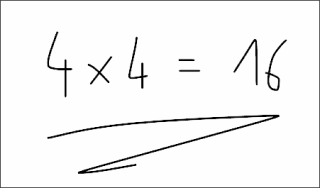
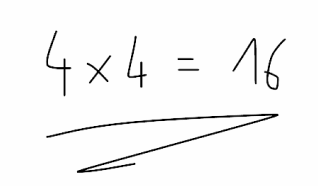
BR-7144: attachment viewer D (header arrows, swipe, R5 fold-away, swipe-down close); 0.75 lines and 3px shadows on all previews; clean photo from Figma
Claude-Session: https://claude.ai/code/session_017Ek2Q6Vjzc9YhSDP4ks2o4

diff --git a/br-7144/flow/pack.js b/br-7144/flow/pack.js
@@ -168,8 +168,7 @@ function docSVG(loading){
   const id="dpc"+(++docN), page="M0 0H291.1L316.5 24.8L317.1 178.8H0Z";
   return `<svg class="docsvg" viewBox="0 0 321 183" preserveAspectRatio="none" ${loading?'aria-hidden="true"':'role="img" aria-label="Document"'}>
     <defs><clipPath id="${id}"><path d="${page}"/></clipPath></defs>
-    <path class="dsh" d="M3 3H294.1L319.5 27.8L320.1 181.8H3Z"/>
-    <g clip-path="url(#${id})">${loading?`<rect class="dfill" width="321" height="183"/>`:`<rect width="321" height="183" fill="#fff"/><image href="assets/document.png" width="317.1" height="178.8" preserveAspectRatio="xMidYMid slice"/><rect width="321" height="183" fill="#000" opacity=".03"/>`}</g>
+        <g clip-path="url(#${id})">${loading?`<rect class="dfill" width="321" height="183"/>`:`<rect width="321" height="183" fill="#fff"/><image href="assets/document.png" width="317.1" height="178.8" preserveAspectRatio="xMidYMid slice"/><rect width="321" height="183" fill="#000" opacity=".03"/>`}</g>
     <path class="dln" d="${page}"/>
     <path class="dsh" d="M294 3.3V27.7H319.2Z"/>
     <path class="dfold" d="M291 .3V24.7H316.2Z"/>
@@ -376,6 +375,7 @@ function syncSel(kind){ if(document.body.classList.contains("proto")) return; co
 const pw=document.getElementById("pwrap");
 pw.addEventListener("click",e=>{
   if(e.target.closest(".badge")){ const id=e.target.closest(".badge").dataset.el; const it=document.querySelector(`#pwrap [data-el="${id}"]`); it&&it.scrollIntoView({block:"center",behavior:"smooth"}); return; }
+  const att=e.target.closest(".as"); if(att&&!att.querySelector(".ld")&&!att.closest(".cv")){ openViewer(att,e.target); return; }
   const a=e.target.closest("[data-act]");
   if(a){ const k=a.dataset.act; if(k==="send"){ e.preventDefault(); send(); } else if(k==="plus") addPhoto(); else if(k==="newchat"){ THREAD=[]; WAITING=false; renderStage(); } return; }
   /* workbench: clicking a component jumps to its spec section */
@@ -384,6 +384,57 @@ pw.addEventListener("click",e=>{
 });
 pw.addEventListener("keydown",e=>{ if(e.key==="Enter"&&e.target.matches(".fld input")){ e.preventDefault(); send(); } });
 function go(stateId){ const x=find(stateId); if(!x) return; ui.sel={kind:"state",mode:x.m.id,state:x.s.id}; ui.live={}; render(); scrollToSel(); }
+
+/* ================= attachment viewer (variant D, Hannes 23.11) =================
+   Tap an attachment: the viewer opens on it. Today's viewer plus ‹ › and "2 of 6 files" in the header (only with several files).
+   R5: scrolling down / zooming in folds the header away, scrolling back up / zooming out / one tap brings it back.
+   Swipe left/right: next / previous file. Swipe down on the top bar closes, only from the start position (top, not zoomed). */
+const VW_SRC={doc:{name:"Worksheet.pdf",kind:"doc",pages:3},doc2:{name:"Exercise_4.pdf",kind:"doc",pages:2},image:{name:"line_sketch.jpg",kind:"image",pages:1},image2:{name:"exercise_4.jpg",kind:"image",pages:1},drawing:{name:"Canvas",kind:"drawing",pages:1}};
+function viewerFiles(as,tapped){
+  if(as.classList.contains("as-two")){ const cols=[...as.querySelectorAll(".col")]; return {files:[VW_SRC.doc,VW_SRC.drawing],start:Math.max(0,cols.findIndex(c=>c.contains(tapped)))}; }
+  if(as.classList.contains("as-more")){ const n=parseInt((as.querySelector(".cap")||{}).textContent)||4; const pool=[VW_SRC.doc,VW_SRC.drawing,VW_SRC.doc2,VW_SRC.image,VW_SRC.image2,{...VW_SRC.drawing,name:"Canvas 2"}];
+    return {files:Array.from({length:n},(_,k)=>pool[k%pool.length]),start:0}; }
+  const k=as.classList.contains("as-doc")?"doc":as.classList.contains("as-drawing")?"drawing":"image"; return {files:[VW_SRC[k]],start:0};
+}
+let VW=null;
+function openViewer(as,tapped){ const {files,start}=viewerFiles(as,tapped); VW={files,i:start,eng:false,zoom:false}; drawViewer(); }
+function closeViewer(){ const v=$("#pwrap .vw"); if(!v) return; v.classList.add("out"); setTimeout(()=>{ v.remove(); VW=null; },220); }
+function vwPage(f){ return `<div class="vw-page"><img src="assets/document.png" alt=""><div class="vw-lines"><i style="width:92%"></i><i style="width:85%"></i><i style="width:96%"></i><i style="width:60%"></i><i style="width:88%"></i><i style="width:74%"></i></div><div class="vw-lines"><i style="width:90%"></i><i style="width:80%"></i><i style="width:52%"></i></div></div>`; }
+function drawViewer(dir){
+  const ph=$("#pwrap .phone"); if(!ph||!VW) return; let v=ph.querySelector(".vw");
+  if(!v){ v=document.createElement("div"); v.className="vw"; ph.appendChild(v); wireViewer(v); }
+  const f=VW.files[VW.i], n=VW.files.length, many=n>1;
+  v.innerHTML=`<div class="vw-hd">${STATUS}<div class="vw-row">
+      <div class="vw-nav">${many?`<button data-vw="prev" aria-label="Previous file" ${VW.i===0?"disabled":""}>${VI.l}</button><button data-vw="next" aria-label="Next file" ${VW.i===n-1?"disabled":""}>${VI.r}</button>`:""}</div>
+      <div class="vw-t"><div class="vw-n">${esc(f.name)}</div>${many?`<div class="vw-s">${VW.i+1} of ${n} files</div>`:""}</div>
+      <div class="vw-x"><button data-vw="close" aria-label="Close">${VI.x}</button></div></div></div>
+    <div class="vw-body ${VW.zoom?"zoom":""}"><div class="vw-in ${dir?"from-"+dir:""}">${f.kind==="doc"?Array.from({length:f.pages},()=>vwPage(f)).join(""):`<div class="vw-media"><img src="assets/${f.kind==="drawing"?"drawing":"photo"}.png" alt=""></div>`}</div></div>
+    ${f.kind==="doc"?`<div class="vw-pill"><b class="vw-p">1</b><span> / ${f.pages}</span></div>`:""}`;
+  v.classList.toggle("eng",VW.eng);
+}
+const VI={l:`<svg width="24" height="24" viewBox="0 0 24 24" fill="none" stroke="currentColor" stroke-width="1.5" stroke-linecap="round" stroke-linejoin="round"><path d="M15 4l-8 8 8 8"/></svg>`,
+  r:`<svg width="24" height="24" viewBox="0 0 24 24" fill="none" stroke="currentColor" stroke-width="1.5" stroke-linecap="round" stroke-linejoin="round"><path d="M9 4l8 8-8 8"/></svg>`,
+  x:`<svg width="24" height="24" viewBox="0 0 24 24" fill="none" stroke="currentColor" stroke-width="1.5" stroke-linecap="round"><path d="M5 5l14 14M19 5L5 19"/></svg>`};
+function vwSet(eng){ if(!VW||VW.eng===eng) return; VW.eng=eng; const v=$("#pwrap .vw"); v&&v.classList.toggle("eng",eng); }
+function vwGo(d){ if(!VW) return; const k=VW.i+d; if(k<0||k>=VW.files.length) return; VW.i=k; VW.zoom=false; VW.eng=false; drawViewer(d>0?"r":"l"); }
+function wireViewer(v){
+  let sx=0,sy=0,st=0,fromHd=false,drag=false,moved=false,lastTap=0,lastTop=0;
+  v.addEventListener("click",e=>{ const b=e.target.closest("[data-vw]"); if(!b) return; e.stopPropagation(); const k=b.dataset.vw; if(k==="close") closeViewer(); else vwGo(k==="next"?1:-1); });
+  v.addEventListener("scroll",e=>{ const b=e.target; if(!b.classList||!b.classList.contains("vw-body")||!VW) return; const t=b.scrollTop, d=t-lastTop; lastTop=t;
+    const pages=b.querySelectorAll(".vw-page"); if(pages.length){ let p=1; pages.forEach((pg,k)=>{ if(pg.offsetTop-b.clientHeight/2<=t) p=k+1; }); const el=v.querySelector(".vw-p"); if(el) el.textContent=p; }
+    if(d>6&&t>20) vwSet(true); else if((d<-6||t<10)&&!VW.zoom) vwSet(false); },true);
+  v.addEventListener("pointerdown",e=>{ if(e.target.closest("button")) return; sx=e.clientX; sy=e.clientY; moved=false; const b=v.querySelector(".vw-body");
+    fromHd=!!e.target.closest(".vw-hd"); st=b?b.scrollTop:0; drag=fromHd&&st<5&&!VW.zoom; if(drag) v.setPointerCapture(e.pointerId); });
+  v.addEventListener("pointermove",e=>{ const dx=e.clientX-sx, dy=e.clientY-sy; if(Math.abs(dx)>6||Math.abs(dy)>6) moved=true;
+    if(drag&&dy>0){ v.style.transition="none"; v.style.transform=`translateY(${dy/(ui.scale||1)}px) scale(${Math.max(.85,1-dy/2000)})`; v.style.borderRadius="24px"; } });
+  v.addEventListener("pointerup",e=>{ const dx=e.clientX-sx, dy=e.clientY-sy;
+    if(drag){ drag=false; v.style.transition=""; if(dy>110){ closeViewer(); return; } v.style.transform=""; v.style.borderRadius=""; if(moved) return; }
+    if(e.target.closest("button")) return;
+    if(!VW.zoom&&Math.abs(dx)>60&&Math.abs(dx)>Math.abs(dy)*1.5){ vwGo(dx<0?1:-1); return; }
+    if(!moved&&e.target.closest(".vw-body")){ const now=Date.now();
+      if(now-lastTap<300){ VW.zoom=!VW.zoom; v.querySelector(".vw-body").classList.toggle("zoom",VW.zoom); vwSet(VW.zoom); lastTap=0; return; }
+      lastTap=now; setTimeout(()=>{ if(lastTap===now&&VW) vwSet(!VW.eng); },310); } });
+}
 
 /* ================= stable element numbers ================= */
 const EL_ORDER=["menu","help","close","newchat","speaker","wline","att-image","att-drawing","att-doc","att-multi","att-loading","cite-source","cite-foot","date","brian"];

diff --git a/packs/br-7144/pack.js b/packs/br-7144/pack.js
@@ -168,8 +168,7 @@ function docSVG(loading){
   const id="dpc"+(++docN), page="M0 0H291.1L316.5 24.8L317.1 178.8H0Z";
   return `<svg class="docsvg" viewBox="0 0 321 183" preserveAspectRatio="none" ${loading?'aria-hidden="true"':'role="img" aria-label="Document"'}>
     <defs><clipPath id="${id}"><path d="${page}"/></clipPath></defs>
-    <path class="dsh" d="M3 3H294.1L319.5 27.8L320.1 181.8H3Z"/>
-    <g clip-path="url(#${id})">${loading?`<rect class="dfill" width="321" height="183"/>`:`<rect width="321" height="183" fill="#fff"/><image href="assets/document.png" width="317.1" height="178.8" preserveAspectRatio="xMidYMid slice"/><rect width="321" height="183" fill="#000" opacity=".03"/>`}</g>
+        <g clip-path="url(#${id})">${loading?`<rect class="dfill" width="321" height="183"/>`:`<rect width="321" height="183" fill="#fff"/><image href="assets/document.png" width="317.1" height="178.8" preserveAspectRatio="xMidYMid slice"/><rect width="321" height="183" fill="#000" opacity=".03"/>`}</g>
     <path class="dln" d="${page}"/>
     <path class="dsh" d="M294 3.3V27.7H319.2Z"/>
     <path class="dfold" d="M291 .3V24.7H316.2Z"/>
@@ -376,6 +375,7 @@ function syncSel(kind){ if(document.body.classList.contains("proto")) return; co
 const pw=document.getElementById("pwrap");
 pw.addEventListener("click",e=>{
   if(e.target.closest(".badge")){ const id=e.target.closest(".badge").dataset.el; const it=document.querySelector(`#pwrap [data-el="${id}"]`); it&&it.scrollIntoView({block:"center",behavior:"smooth"}); return; }
+  const att=e.target.closest(".as"); if(att&&!att.querySelector(".ld")&&!att.closest(".cv")){ openViewer(att,e.target); return; }
   const a=e.target.closest("[data-act]");
   if(a){ const k=a.dataset.act; if(k==="send"){ e.preventDefault(); send(); } else if(k==="plus") addPhoto(); else if(k==="newchat"){ THREAD=[]; WAITING=false; renderStage(); } return; }
   /* workbench: clicking a component jumps to its spec section */
@@ -384,6 +384,57 @@ pw.addEventListener("click",e=>{
 });
 pw.addEventListener("keydown",e=>{ if(e.key==="Enter"&&e.target.matches(".fld input")){ e.preventDefault(); send(); } });
 function go(stateId){ const x=find(stateId); if(!x) return; ui.sel={kind:"state",mode:x.m.id,state:x.s.id}; ui.live={}; render(); scrollToSel(); }
+
+/* ================= attachment viewer (variant D, Hannes 23.11) =================
+   Tap an attachment: the viewer opens on it. Today's viewer plus ‹ › and "2 of 6 files" in the header (only with several files).
+   R5: scrolling down / zooming in folds the header away, scrolling back up / zooming out / one tap brings it back.
+   Swipe left/right: next / previous file. Swipe down on the top bar closes, only from the start position (top, not zoomed). */
+const VW_SRC={doc:{name:"Worksheet.pdf",kind:"doc",pages:3},doc2:{name:"Exercise_4.pdf",kind:"doc",pages:2},image:{name:"line_sketch.jpg",kind:"image",pages:1},image2:{name:"exercise_4.jpg",kind:"image",pages:1},drawing:{name:"Canvas",kind:"drawing",pages:1}};
+function viewerFiles(as,tapped){
+  if(as.classList.contains("as-two")){ const cols=[...as.querySelectorAll(".col")]; return {files:[VW_SRC.doc,VW_SRC.drawing],start:Math.max(0,cols.findIndex(c=>c.contains(tapped)))}; }
+  if(as.classList.contains("as-more")){ const n=parseInt((as.querySelector(".cap")||{}).textContent)||4; const pool=[VW_SRC.doc,VW_SRC.drawing,VW_SRC.doc2,VW_SRC.image,VW_SRC.image2,{...VW_SRC.drawing,name:"Canvas 2"}];
+    return {files:Array.from({length:n},(_,k)=>pool[k%pool.length]),start:0}; }
+  const k=as.classList.contains("as-doc")?"doc":as.classList.contains("as-drawing")?"drawing":"image"; return {files:[VW_SRC[k]],start:0};
+}
+let VW=null;
+function openViewer(as,tapped){ const {files,start}=viewerFiles(as,tapped); VW={files,i:start,eng:false,zoom:false}; drawViewer(); }
+function closeViewer(){ const v=$("#pwrap .vw"); if(!v) return; v.classList.add("out"); setTimeout(()=>{ v.remove(); VW=null; },220); }
+function vwPage(f){ return `<div class="vw-page"><img src="assets/document.png" alt=""><div class="vw-lines"><i style="width:92%"></i><i style="width:85%"></i><i style="width:96%"></i><i style="width:60%"></i><i style="width:88%"></i><i style="width:74%"></i></div><div class="vw-lines"><i style="width:90%"></i><i style="width:80%"></i><i style="width:52%"></i></div></div>`; }
+function drawViewer(dir){
+  const ph=$("#pwrap .phone"); if(!ph||!VW) return; let v=ph.querySelector(".vw");
+  if(!v){ v=document.createElement("div"); v.className="vw"; ph.appendChild(v); wireViewer(v); }
+  const f=VW.files[VW.i], n=VW.files.length, many=n>1;
+  v.innerHTML=`<div class="vw-hd">${STATUS}<div class="vw-row">
+      <div class="vw-nav">${many?`<button data-vw="prev" aria-label="Previous file" ${VW.i===0?"disabled":""}>${VI.l}</button><button data-vw="next" aria-label="Next file" ${VW.i===n-1?"disabled":""}>${VI.r}</button>`:""}</div>
+      <div class="vw-t"><div class="vw-n">${esc(f.name)}</div>${many?`<div class="vw-s">${VW.i+1} of ${n} files</div>`:""}</div>
+      <div class="vw-x"><button data-vw="close" aria-label="Close">${VI.x}</button></div></div></div>
+    <div class="vw-body ${VW.zoom?"zoom":""}"><div class="vw-in ${dir?"from-"+dir:""}">${f.kind==="doc"?Array.from({length:f.pages},()=>vwPage(f)).join(""):`<div class="vw-media"><img src="assets/${f.kind==="drawing"?"drawing":"photo"}.png" alt=""></div>`}</div></div>
+    ${f.kind==="doc"?`<div class="vw-pill"><b class="vw-p">1</b><span> / ${f.pages}</span></div>`:""}`;
+  v.classList.toggle("eng",VW.eng);
+}
+const VI={l:`<svg width="24" height="24" viewBox="0 0 24 24" fill="none" stroke="currentColor" stroke-width="1.5" stroke-linecap="round" stroke-linejoin="round"><path d="M15 4l-8 8 8 8"/></svg>`,
+  r:`<svg width="24" height="24" viewBox="0 0 24 24" fill="none" stroke="currentColor" stroke-width="1.5" stroke-linecap="round" stroke-linejoin="round"><path d="M9 4l8 8-8 8"/></svg>`,
+  x:`<svg width="24" height="24" viewBox="0 0 24 24" fill="none" stroke="currentColor" stroke-width="1.5" stroke-linecap="round"><path d="M5 5l14 14M19 5L5 19"/></svg>`};
+function vwSet(eng){ if(!VW||VW.eng===eng) return; VW.eng=eng; const v=$("#pwrap .vw"); v&&v.classList.toggle("eng",eng); }
+function vwGo(d){ if(!VW) return; const k=VW.i+d; if(k<0||k>=VW.files.length) return; VW.i=k; VW.zoom=false; VW.eng=false; drawViewer(d>0?"r":"l"); }
+function wireViewer(v){
+  let sx=0,sy=0,st=0,fromHd=false,drag=false,moved=false,lastTap=0,lastTop=0;
+  v.addEventListener("click",e=>{ const b=e.target.closest("[data-vw]"); if(!b) return; e.stopPropagation(); const k=b.dataset.vw; if(k==="close") closeViewer(); else vwGo(k==="next"?1:-1); });
+  v.addEventListener("scroll",e=>{ const b=e.target; if(!b.classList||!b.classList.contains("vw-body")||!VW) return; const t=b.scrollTop, d=t-lastTop; lastTop=t;
+    const pages=b.querySelectorAll(".vw-page"); if(pages.length){ let p=1; pages.forEach((pg,k)=>{ if(pg.offsetTop-b.clientHeight/2<=t) p=k+1; }); const el=v.querySelector(".vw-p"); if(el) el.textContent=p; }
+    if(d>6&&t>20) vwSet(true); else if((d<-6||t<10)&&!VW.zoom) vwSet(false); },true);
+  v.addEventListener("pointerdown",e=>{ if(e.target.closest("button")) return; sx=e.clientX; sy=e.clientY; moved=false; const b=v.querySelector(".vw-body");
+    fromHd=!!e.target.closest(".vw-hd"); st=b?b.scrollTop:0; drag=fromHd&&st<5&&!VW.zoom; if(drag) v.setPointerCapture(e.pointerId); });
+  v.addEventListener("pointermove",e=>{ const dx=e.clientX-sx, dy=e.clientY-sy; if(Math.abs(dx)>6||Math.abs(dy)>6) moved=true;
+    if(drag&&dy>0){ v.style.transition="none"; v.style.transform=`translateY(${dy/(ui.scale||1)}px) scale(${Math.max(.85,1-dy/2000)})`; v.style.borderRadius="24px"; } });
+  v.addEventListener("pointerup",e=>{ const dx=e.clientX-sx, dy=e.clientY-sy;
+    if(drag){ drag=false; v.style.transition=""; if(dy>110){ closeViewer(); return; } v.style.transform=""; v.style.borderRadius=""; if(moved) return; }
+    if(e.target.closest("button")) return;
+    if(!VW.zoom&&Math.abs(dx)>60&&Math.abs(dx)>Math.abs(dy)*1.5){ vwGo(dx<0?1:-1); return; }
+    if(!moved&&e.target.closest(".vw-body")){ const now=Date.now();
+      if(now-lastTap<300){ VW.zoom=!VW.zoom; v.querySelector(".vw-body").classList.toggle("zoom",VW.zoom); vwSet(VW.zoom); lastTap=0; return; }
+      lastTap=now; setTimeout(()=>{ if(lastTap===now&&VW) vwSet(!VW.eng); },310); } });
+}
 
 /* ================= stable element numbers ================= */
 const EL_ORDER=["menu","help","close","newchat","speaker","wline","att-image","att-drawing","att-doc","att-multi","att-loading","cite-source","cite-foot","date","brian"];

diff --git a/br-7144/flow/pack.css b/br-7144/flow/pack.css
@@ -49,7 +49,7 @@ body.native .phone.dark .ci{padding-bottom:calc(12px + env(safe-area-inset-botto
 
 /* hairline helper: 1px border scaled to 0.75 */
 .th-img,.th-draw,.tag,.fld,.th-draw.ld{position:relative}
-.th-img::before,.tag::before,.fld::before{content:"";position:absolute;left:0;top:0;width:133.334%;height:133.334%;border:1px solid var(--b-ink);transform:scale(.75);transform-origin:0 0;pointer-events:none;box-sizing:border-box;border-radius:inherit}
+.th-img::before,.th-draw::before,.tag::before,.fld::before{content:"";position:absolute;left:0;top:0;width:133.334%;height:133.334%;border:1px solid var(--b-ink);transform:scale(.75);transform-origin:0 0;pointer-events:none;box-sizing:border-box;border-radius:inherit}
 .fld::before{border-color:#3a3a3a}
 
 /* assets (Figma Components 12495:98454) */
@@ -60,13 +60,14 @@ body.native .phone.dark .ci{padding-bottom:calc(12px + env(safe-area-inset-botto
 .th-img{height:179px;background:#fff;padding:4px 4px 16px;box-sizing:border-box;box-shadow:3px 3px 0 var(--b-ink)}  /* straight, no tilt (Hannes 23.11) */
 .th-img .ph{display:grid;place-items:center;width:100%;height:100%;overflow:hidden}
 .th-img.ld .ph{background:#3a3a3a}
-/* drawing: the canvas render carries its own frame, so the box is exactly the picture (no extra outline); same hard shadow as the image (Hannes 23.11) */
+/* drawing: frame line from CSS (0.75, like every attachment), the render's own 1px frame is cropped off; same 3px hard shadow (Hannes 23.11) */
 .th-draw{height:auto;aspect-ratio:320/188;background:#fff;box-shadow:3px 3px 0 var(--b-ink)}
 .th-draw img{object-fit:fill}
 .th-draw.ld{height:184px;aspect-ratio:auto;box-shadow:none}
+.th-draw.ld::before{display:none}
 .th-draw.ld{background:#3a3a3a;display:grid;place-items:center}
 .th-doc{aspect-ratio:321/183;position:relative}  /* page + fold drawn in docSVG (pack.js), as the Figma Document component */
-.docsvg{position:absolute;inset:0;width:100%;height:100%;overflow:visible}
+.docsvg{position:absolute;inset:0;width:100%;height:100%;overflow:visible;filter:drop-shadow(3px 3px 0 var(--b-ink))}  /* fixed 3px shadow at every size, like the canvas (Hannes 23.11) */
 .docsvg .dsh{fill:var(--b-ink)}
 .docsvg .dln{fill:none;stroke:var(--b-ink);stroke-width:.75;vector-effect:non-scaling-stroke}
 .docsvg .dfold{fill:#fff;stroke:var(--b-ink);stroke-width:.75;stroke-linejoin:round;vector-effect:non-scaling-stroke}
@@ -172,3 +173,31 @@ body.proto .cvtog,body.native .cvtog{display:none}
 @media (prefers-reduced-motion:reduce){.porthole .wv{animation:none}}
 .as-two .loader,.as-more .loader{width:28px;height:28px}
 /* mocked parts carry data-mock (for agents and the handoff); no visible marker (Hannes 23.11) */
+
+/* attachment viewer (variant D): dark header with ‹ › and "x of y files", today's page pill; folds away per R5 */
+.as:not(:has(.ld)){cursor:pointer}
+.vw{position:absolute;inset:0;z-index:20;background:#ececec;display:flex;flex-direction:column;overflow:hidden;transition:transform .22s ease,opacity .22s ease,border-radius .22s ease;animation:vwin .22s ease;touch-action:none}
+.vw.out{transform:translateY(40%) scale(.9);opacity:0}
+@keyframes vwin{from{transform:translateY(30px);opacity:0}}
+.vw-hd{position:absolute;left:0;right:0;top:0;z-index:2;background:#3a3a3a;color:#fff;transition:transform .25s ease}
+.vw.eng .vw-hd{transform:translateY(-100%)}
+.vw-row{display:grid;grid-template-columns:96px 1fr 96px;align-items:center;padding:4px 8px 10px}
+.vw-nav{display:flex}.vw-x{display:flex;justify-content:flex-end}
+.vw-hd button{width:44px;height:44px;border:0;background:none;color:#fff;display:grid;place-items:center;padding:0;cursor:pointer}
+.vw-hd button:disabled{opacity:.3;cursor:default}
+.vw-t{text-align:center;min-width:0}
+.vw-n{font:700 16px/1.3 var(--b-font);white-space:nowrap;overflow:hidden;text-overflow:ellipsis}
+.vw-s{font:500 13px/1.3 var(--b-font);color:#b9b9b9}
+.vw-body{flex:1;overflow-y:auto;padding:118px 8px 110px;scrollbar-width:none;touch-action:pan-y}
+.vw-body::-webkit-scrollbar{display:none}
+.vw-in{display:flex;flex-direction:column;gap:12px;transition:transform .25s ease;transform-origin:50% 20%}
+.vw-in.from-r{animation:vwr .22s ease}.vw-in.from-l{animation:vwl .22s ease}
+@keyframes vwr{from{transform:translateX(40%);opacity:0}}@keyframes vwl{from{transform:translateX(-40%);opacity:0}}
+.vw-body.zoom .vw-in{transform:scale(1.7)}
+.vw-page{background:#fff;padding:24px 20px;display:flex;flex-direction:column;gap:14px}
+.vw-page img{width:100%;display:block}
+.vw-lines{display:flex;flex-direction:column;gap:9px}.vw-lines i{display:block;height:7px;background:#e3e3e3;border-radius:2px}
+.vw-media{min-height:480px;display:grid;place-items:center}.vw-media img{max-width:100%;display:block;background:#fff}
+.vw-pill{position:absolute;left:50%;bottom:34px;transform:translateX(-50%);background:rgba(58,58,58,.86);color:#bdbdbd;border-radius:999px;padding:12px 24px;font:500 22px/1 var(--b-font);z-index:2;pointer-events:none}
+.vw-pill b{color:#fff;font-weight:700}
+body.native .vw-hd{padding-top:env(safe-area-inset-top)}

diff --git a/packs/br-7144/pack.css b/packs/br-7144/pack.css
@@ -49,7 +49,7 @@ body.native .phone.dark .ci{padding-bottom:calc(12px + env(safe-area-inset-botto
 
 /* hairline helper: 1px border scaled to 0.75 */
 .th-img,.th-draw,.tag,.fld,.th-draw.ld{position:relative}
-.th-img::before,.tag::before,.fld::before{content:"";position:absolute;left:0;top:0;width:133.334%;height:133.334%;border:1px solid var(--b-ink);transform:scale(.75);transform-origin:0 0;pointer-events:none;box-sizing:border-box;border-radius:inherit}
+.th-img::before,.th-draw::before,.tag::before,.fld::before{content:"";position:absolute;left:0;top:0;width:133.334%;height:133.334%;border:1px solid var(--b-ink);transform:scale(.75);transform-origin:0 0;pointer-events:none;box-sizing:border-box;border-radius:inherit}
 .fld::before{border-color:#3a3a3a}
 
 /* assets (Figma Components 12495:98454) */
@@ -60,13 +60,14 @@ body.native .phone.dark .ci{padding-bottom:calc(12px + env(safe-area-inset-botto
 .th-img{height:179px;background:#fff;padding:4px 4px 16px;box-sizing:border-box;box-shadow:3px 3px 0 var(--b-ink)}  /* straight, no tilt (Hannes 23.11) */
 .th-img .ph{display:grid;place-items:center;width:100%;height:100%;overflow:hidden}
 .th-img.ld .ph{background:#3a3a3a}
-/* drawing: the canvas render carries its own frame, so the box is exactly the picture (no extra outline); same hard shadow as the image (Hannes 23.11) */
+/* drawing: frame line from CSS (0.75, like every attachment), the render's own 1px frame is cropped off; same 3px hard shadow (Hannes 23.11) */
 .th-draw{height:auto;aspect-ratio:320/188;background:#fff;box-shadow:3px 3px 0 var(--b-ink)}
 .th-draw img{object-fit:fill}
 .th-draw.ld{height:184px;aspect-ratio:auto;box-shadow:none}
+.th-draw.ld::before{display:none}
 .th-draw.ld{background:#3a3a3a;display:grid;place-items:center}
 .th-doc{aspect-ratio:321/183;position:relative}  /* page + fold drawn in docSVG (pack.js), as the Figma Document component */
-.docsvg{position:absolute;inset:0;width:100%;height:100%;overflow:visible}
+.docsvg{position:absolute;inset:0;width:100%;height:100%;overflow:visible;filter:drop-shadow(3px 3px 0 var(--b-ink))}  /* fixed 3px shadow at every size, like the canvas (Hannes 23.11) */
 .docsvg .dsh{fill:var(--b-ink)}
 .docsvg .dln{fill:none;stroke:var(--b-ink);stroke-width:.75;vector-effect:non-scaling-stroke}
 .docsvg .dfold{fill:#fff;stroke:var(--b-ink);stroke-width:.75;stroke-linejoin:round;vector-effect:non-scaling-stroke}
@@ -172,3 +173,31 @@ body.proto .cvtog,body.native .cvtog{display:none}
 @media (prefers-reduced-motion:reduce){.porthole .wv{animation:none}}
 .as-two .loader,.as-more .loader{width:28px;height:28px}
 /* mocked parts carry data-mock (for agents and the handoff); no visible marker (Hannes 23.11) */
+
+/* attachment viewer (variant D): dark header with ‹ › and "x of y files", today's page pill; folds away per R5 */
+.as:not(:has(.ld)){cursor:pointer}
+.vw{position:absolute;inset:0;z-index:20;background:#ececec;display:flex;flex-direction:column;overflow:hidden;transition:transform .22s ease,opacity .22s ease,border-radius .22s ease;animation:vwin .22s ease;touch-action:none}
+.vw.out{transform:translateY(40%) scale(.9);opacity:0}
+@keyframes vwin{from{transform:translateY(30px);opacity:0}}
+.vw-hd{position:absolute;left:0;right:0;top:0;z-index:2;background:#3a3a3a;color:#fff;transition:transform .25s ease}
+.vw.eng .vw-hd{transform:translateY(-100%)}
+.vw-row{display:grid;grid-template-columns:96px 1fr 96px;align-items:center;padding:4px 8px 10px}
+.vw-nav{display:flex}.vw-x{display:flex;justify-content:flex-end}
+.vw-hd button{width:44px;height:44px;border:0;background:none;color:#fff;display:grid;place-items:center;padding:0;cursor:pointer}
+.vw-hd button:disabled{opacity:.3;cursor:default}
+.vw-t{text-align:center;min-width:0}
+.vw-n{font:700 16px/1.3 var(--b-font);white-space:nowrap;overflow:hidden;text-overflow:ellipsis}
+.vw-s{font:500 13px/1.3 var(--b-font);color:#b9b9b9}
+.vw-body{flex:1;overflow-y:auto;padding:118px 8px 110px;scrollbar-width:none;touch-action:pan-y}
+.vw-body::-webkit-scrollbar{display:none}
+.vw-in{display:flex;flex-direction:column;gap:12px;transition:transform .25s ease;transform-origin:50% 20%}
+.vw-in.from-r{animation:vwr .22s ease}.vw-in.from-l{animation:vwl .22s ease}
+@keyframes vwr{from{transform:translateX(40%);opacity:0}}@keyframes vwl{from{transform:translateX(-40%);opacity:0}}
+.vw-body.zoom .vw-in{transform:scale(1.7)}
+.vw-page{background:#fff;padding:24px 20px;display:flex;flex-direction:column;gap:14px}
+.vw-page img{width:100%;display:block}
+.vw-lines{display:flex;flex-direction:column;gap:9px}.vw-lines i{display:block;height:7px;background:#e3e3e3;border-radius:2px}
+.vw-media{min-height:480px;display:grid;place-items:center}.vw-media img{max-width:100%;display:block;background:#fff}
+.vw-pill{position:absolute;left:50%;bottom:34px;transform:translateX(-50%);background:rgba(58,58,58,.86);color:#bdbdbd;border-radius:999px;padding:12px 24px;font:500 22px/1 var(--b-font);z-index:2;pointer-events:none}
+.vw-pill b{color:#fff;font-weight:700}
+body.native .vw-hd{padding-top:env(safe-area-inset-top)}

diff --git a/br-7144/flow/app.html b/br-7144/flow/app.html
@@ -8,8 +8,8 @@
 <script src="https://cdnjs.cloudflare.com/ajax/libs/qrcodejs/1.0.0/qrcode.min.js"></script>
 <link href="https://fonts.googleapis.com/css2?family=IBM+Plex+Sans:wght@400;500;600&family=IBM+Plex+Mono:wght@400;500&family=Nunito+Sans:opsz,wght@6..12,500;6..12,700&display=swap" rel="stylesheet">
 <script type="importmap">{"imports":{"https://cdn.jsdelivr.net/npm/react@%5E19.3.0/+esm":"https://cdn.jsdelivr.net/npm/react@19.3.0/+esm"}}</script>
-<link rel="stylesheet" href="shell.css?v=20261123181911">
-<link rel="stylesheet" href="pack.css?v=20261123181911">
+<link rel="stylesheet" href="shell.css?v=20261123183118">
+<link rel="stylesheet" href="pack.css?v=20261123183118">
 </head>
 <body>
 <div class="app">
@@ -37,9 +37,9 @@
 <div id="measure" aria-hidden="true" style="position:absolute;left:-9999px;top:0;visibility:hidden"></div>
 <div class="modal" id="modal"><div class="card" id="mcard"></div></div>
 
-<script src="pack.js?v=20261123181911"></script>
-<script src="shell.js?v=20261123181911"></script>
+<script src="pack.js?v=20261123183118"></script>
+<script src="shell.js?v=20261123183118"></script>
 
-<script src="../../_shared/a2hs.js?v=20261123181911" defer></script>
+<script src="../../_shared/a2hs.js?v=20261123183118" defer></script>
 </body>
 </html>
